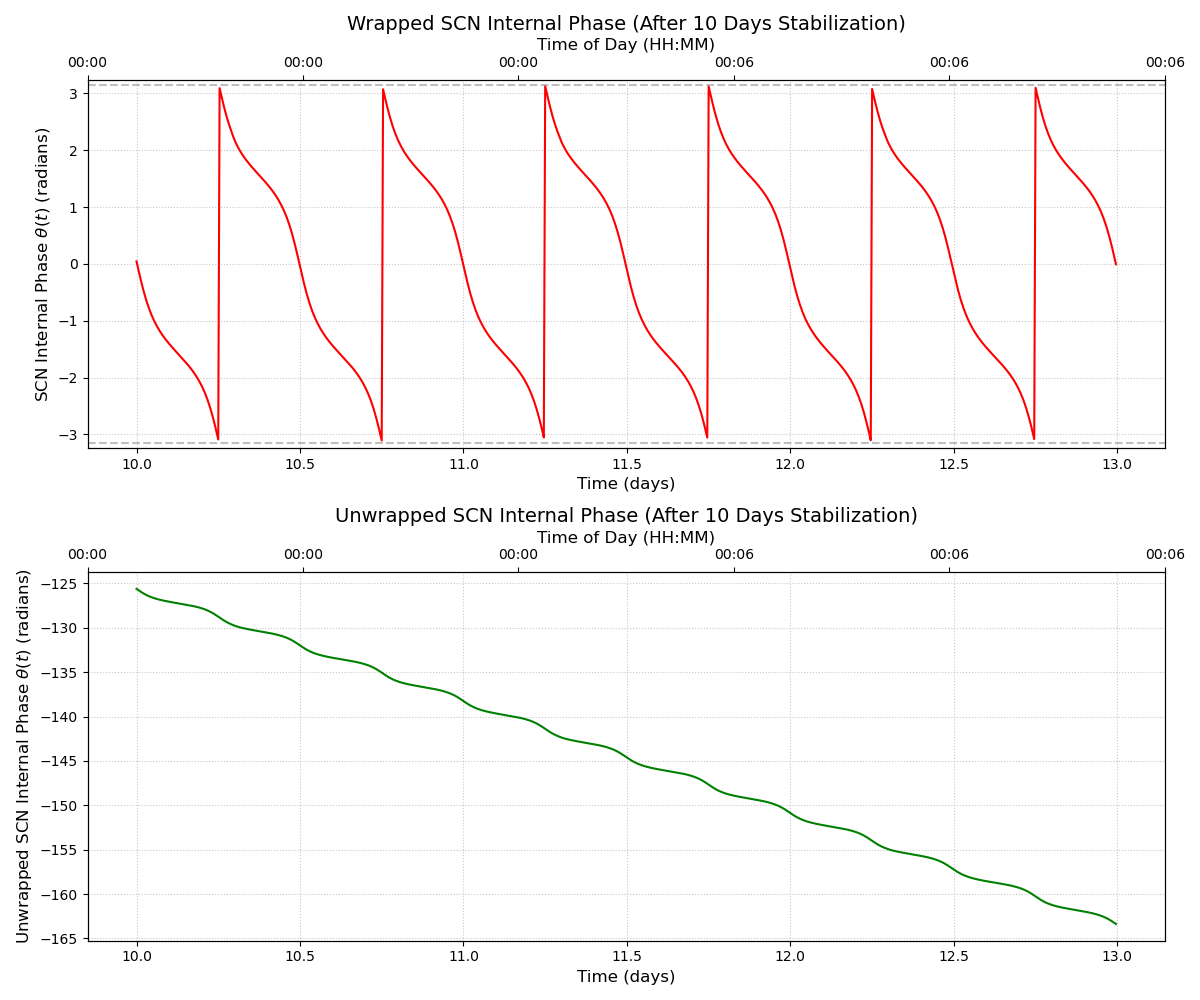
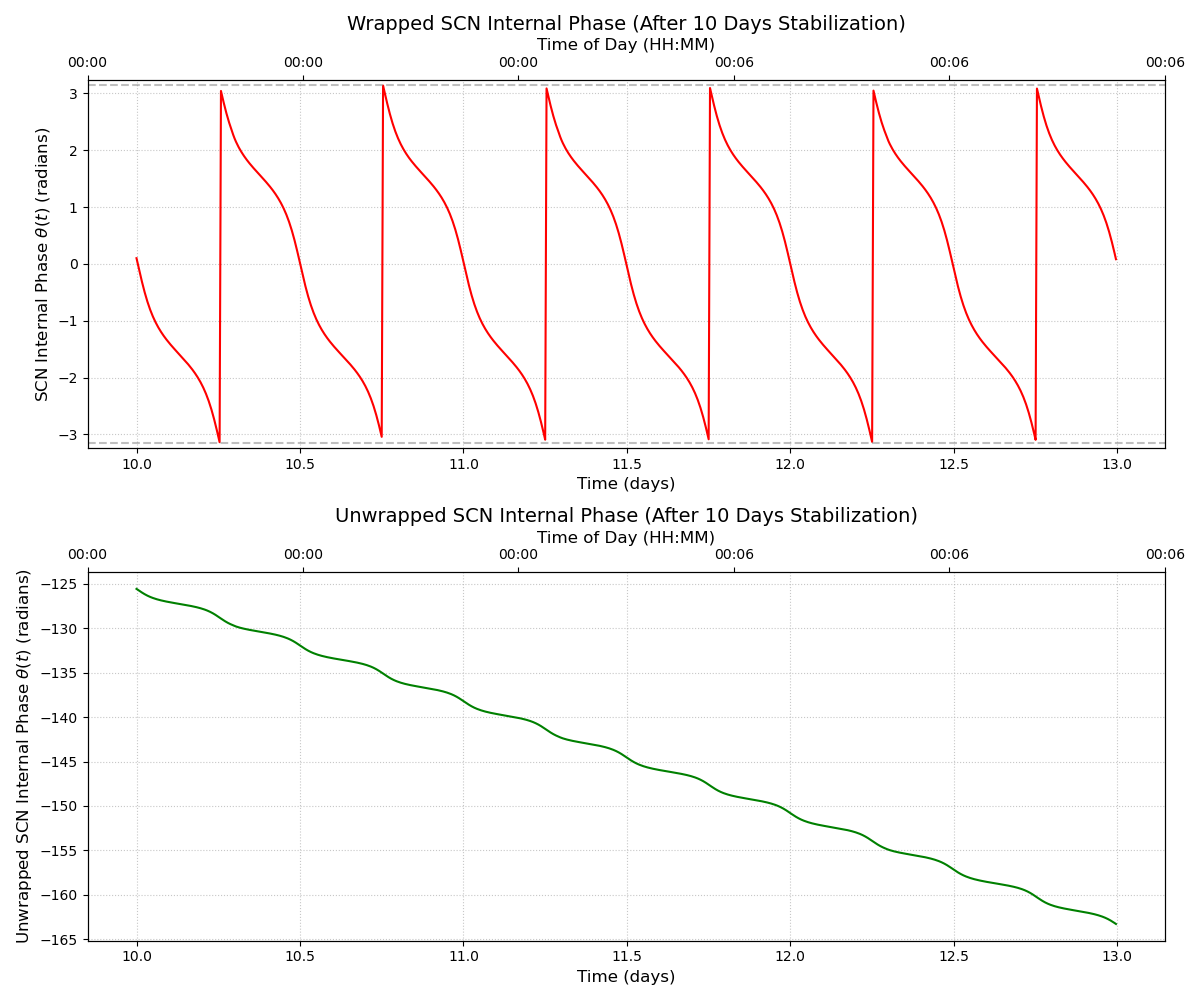
re-scale x_C

diff --git a/SCN/KJF.py b/SCN/KJF.py
@@ -25,8 +25,8 @@ stabilisation = 10
 # Parameters for S(t) homeostatic sleep drive
 r_w = 0.2      # Rate constant for increase of S during wake
 r_s = 0.3      # Rate constant for decrease of S during sleep
-S_max = 15.0    # Maximum value of S
-S_init = S_max / 2  # Start at midpoint, for example
+S_max = 1.0    # Maximum value of S (changed from 15.0 to 1.0)
+S_init = S_max / 2  # Start at midpoint
 
 # --- Helper Functions ---
 
@@ -271,7 +271,11 @@ x_sol = solution[:, 0]
 xc_sol = solution[:, 1]
 n_sol = solution[:, 2]
 S_sol = solution[:, 3]
-SP_sol = S_sol - xc_sol
+
+# Re-scale x_c to amplitude 1 before calculating SP
+xc_max = np.max(np.abs(xc_sol))
+xc_sol_scaled = xc_sol / xc_max
+SP_sol = S_sol - xc_sol_scaled
 
 # --- Derive SCN Internal Phase (theta) ---
 # theta(t) = atan2(xc(t), x(t))
